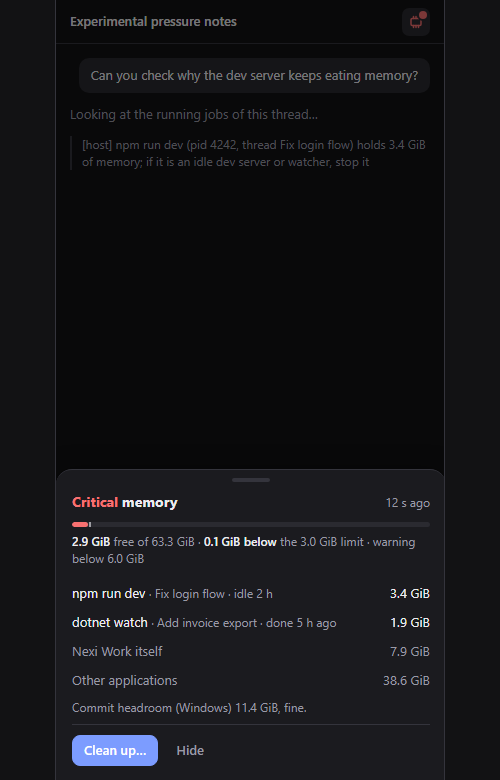
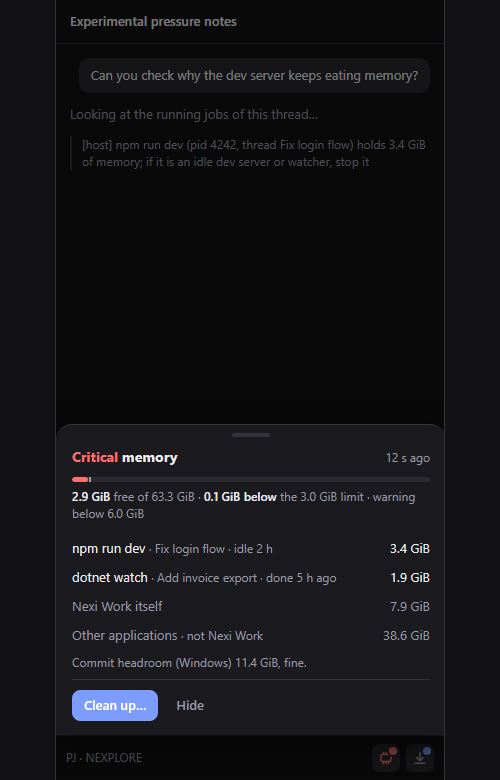
docs(mockup): narrow badge lives in the footer only; Other applications row labelled
Mockup revision after PJ's answers. Not for merge. Refs hive/nx-nexi#954

diff --git a/docs/mockups/pressure-compact-ui/t3team-mockup.html b/docs/mockups/pressure-compact-ui/t3team-mockup.html
@@ -53,7 +53,7 @@
   .btn.pri { background:var(--acc); border-color:var(--acc); color:#fff; } .btn.ghost { border-color:transparent; background:transparent; color:var(--mut); font-weight:500; }
   .narrow { width:390px; margin:0 auto; border-left:1px solid var(--bd); border-right:1px solid var(--bd); }
   .narrow .side { display:none; } .narrow .msgs { padding:14px; } .narrow .composer { margin:0 14px 14px; }
-  .narrow .sheet { position:absolute; left:0; width:390px; bottom:0; background:var(--panel); border-top:1px solid var(--bd); border-radius:16px 16px 0 0; box-shadow:var(--shadow); z-index:6; }
+  .narrow .sheet { position:absolute; left:0; width:390px; bottom:45px; background:var(--panel); border-top:1px solid var(--bd); border-radius:16px 16px 0 0; box-shadow:var(--shadow); z-index:6; }
   .narrow .sheet .grab { width:38px; height:4px; border-radius:9px; background:var(--bd); margin:8px auto 0; }
   .narrow .pop { border:0; box-shadow:none; width:auto; border-radius:0; padding:10px 16px 14px; }
   .scrim { position:absolute; inset:0; background:rgba(0,0,0,.28); z-index:4; } .dark .scrim { background:rgba(0,0,0,.5); }
@@ -90,7 +90,7 @@ const drill = `<div class="pop">
     <div class="it"><span class="n">npm run dev <small>· Fix login flow · idle 2 h</small></span><span class="v">3.4 GiB</span></div>
     <div class="it"><span class="n">dotnet watch <small>· Add invoice export · done 5 h ago</small></span><span class="v">1.9 GiB</span></div>
     <div class="it mut"><span class="n">Nexi Work itself</span><span class="v">7.9 GiB</span></div>
-    <div class="it mut"><span class="n">Other applications</span><span class="v">38.6 GiB</span></div>
+    <div class="it mut"><span class="n">Other applications <small>· not Nexi Work</small></span><span class="v">38.6 GiB</span></div>
   </div>
   <div class="fact">Commit headroom (Windows) 11.4 GiB, fine.</div>
   <div class="acts"><button class="btn pri">Clean up…</button><button class="btn ghost">Hide</button></div>
@@ -137,8 +137,9 @@ if (!narrow) {
     ${view === "drill" ? `<div style="position:absolute;left:34px;bottom:56px;z-index:6">${drill}</div>` : ""}
     ${isTip ? `<div class="tip" style="left:60px;bottom:50px">${tipText}</div>` : ""}</div>`;
 } else {
-  html = `<div class="app narrow"><section class="main"><div class="top"><span class="title">${title}</span><span class="grow"></span>${pressureBtn}</div>
-    <div class="msgs">${body}</div><div class="composer">Message…</div></section>
+  html = `<div class="app narrow"><section class="main"><div class="top"><span class="title">${title}</span></div>
+    <div class="msgs">${body}</div><div class="composer">Message…</div>
+    <div class="foot"><span class="who">PJ · NEXPLORE</span>${pressureBtn}${updateBtn}</div></section>
     ${view === "drill" ? `<div class="scrim"></div><div class="sheet"><div class="grab"></div>${drill}</div>` : ""}</div>`;
 }
 document.getElementById("root").innerHTML = html;
